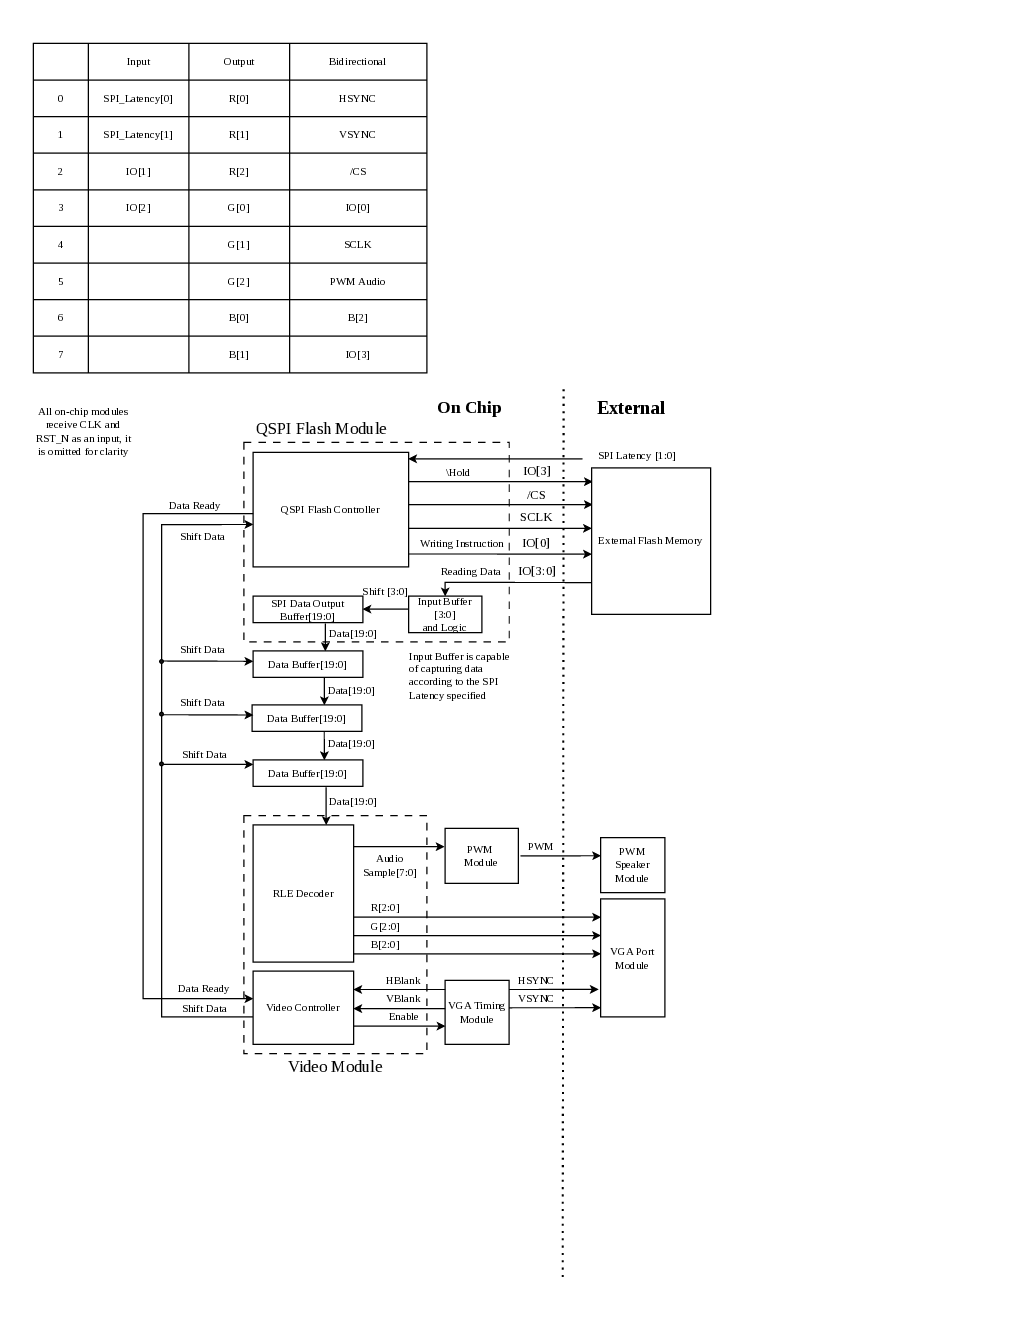
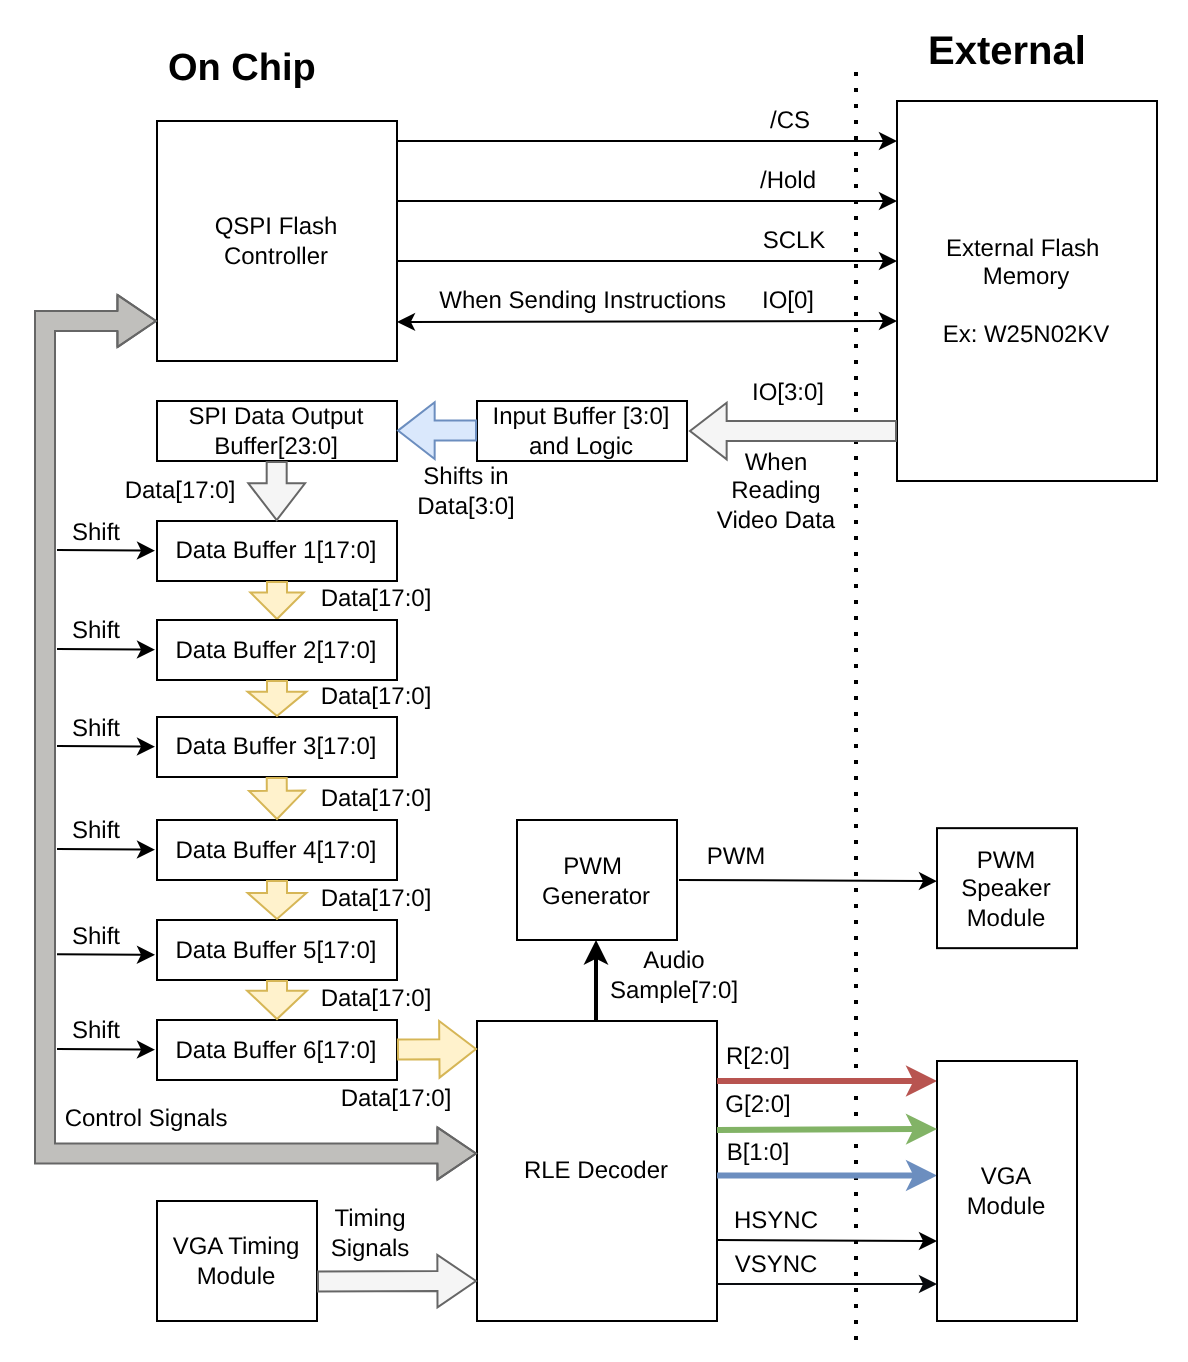
Update ReadMe

diff --git a/README.md b/README.md
@@ -12,3 +12,8 @@ This project is a video and audio player to be fabricated into an ASIC design fo
 - 640x480p 60Hz VGA video output
 - 8-bit colour (3-bit Red, 3-bit Green, 2-bit Blue)
 - 8-bit PWM audio at ~31.5kHz sample rate
+
+#### Block Diagram
+<p align="center">
+  <img src="https://github.com/JonathanThing/VGA-Video-Player/blob/main/docs/imgs/Block_Diagram.png?raw=true" alt="Diagram 1"/>
+</p>
